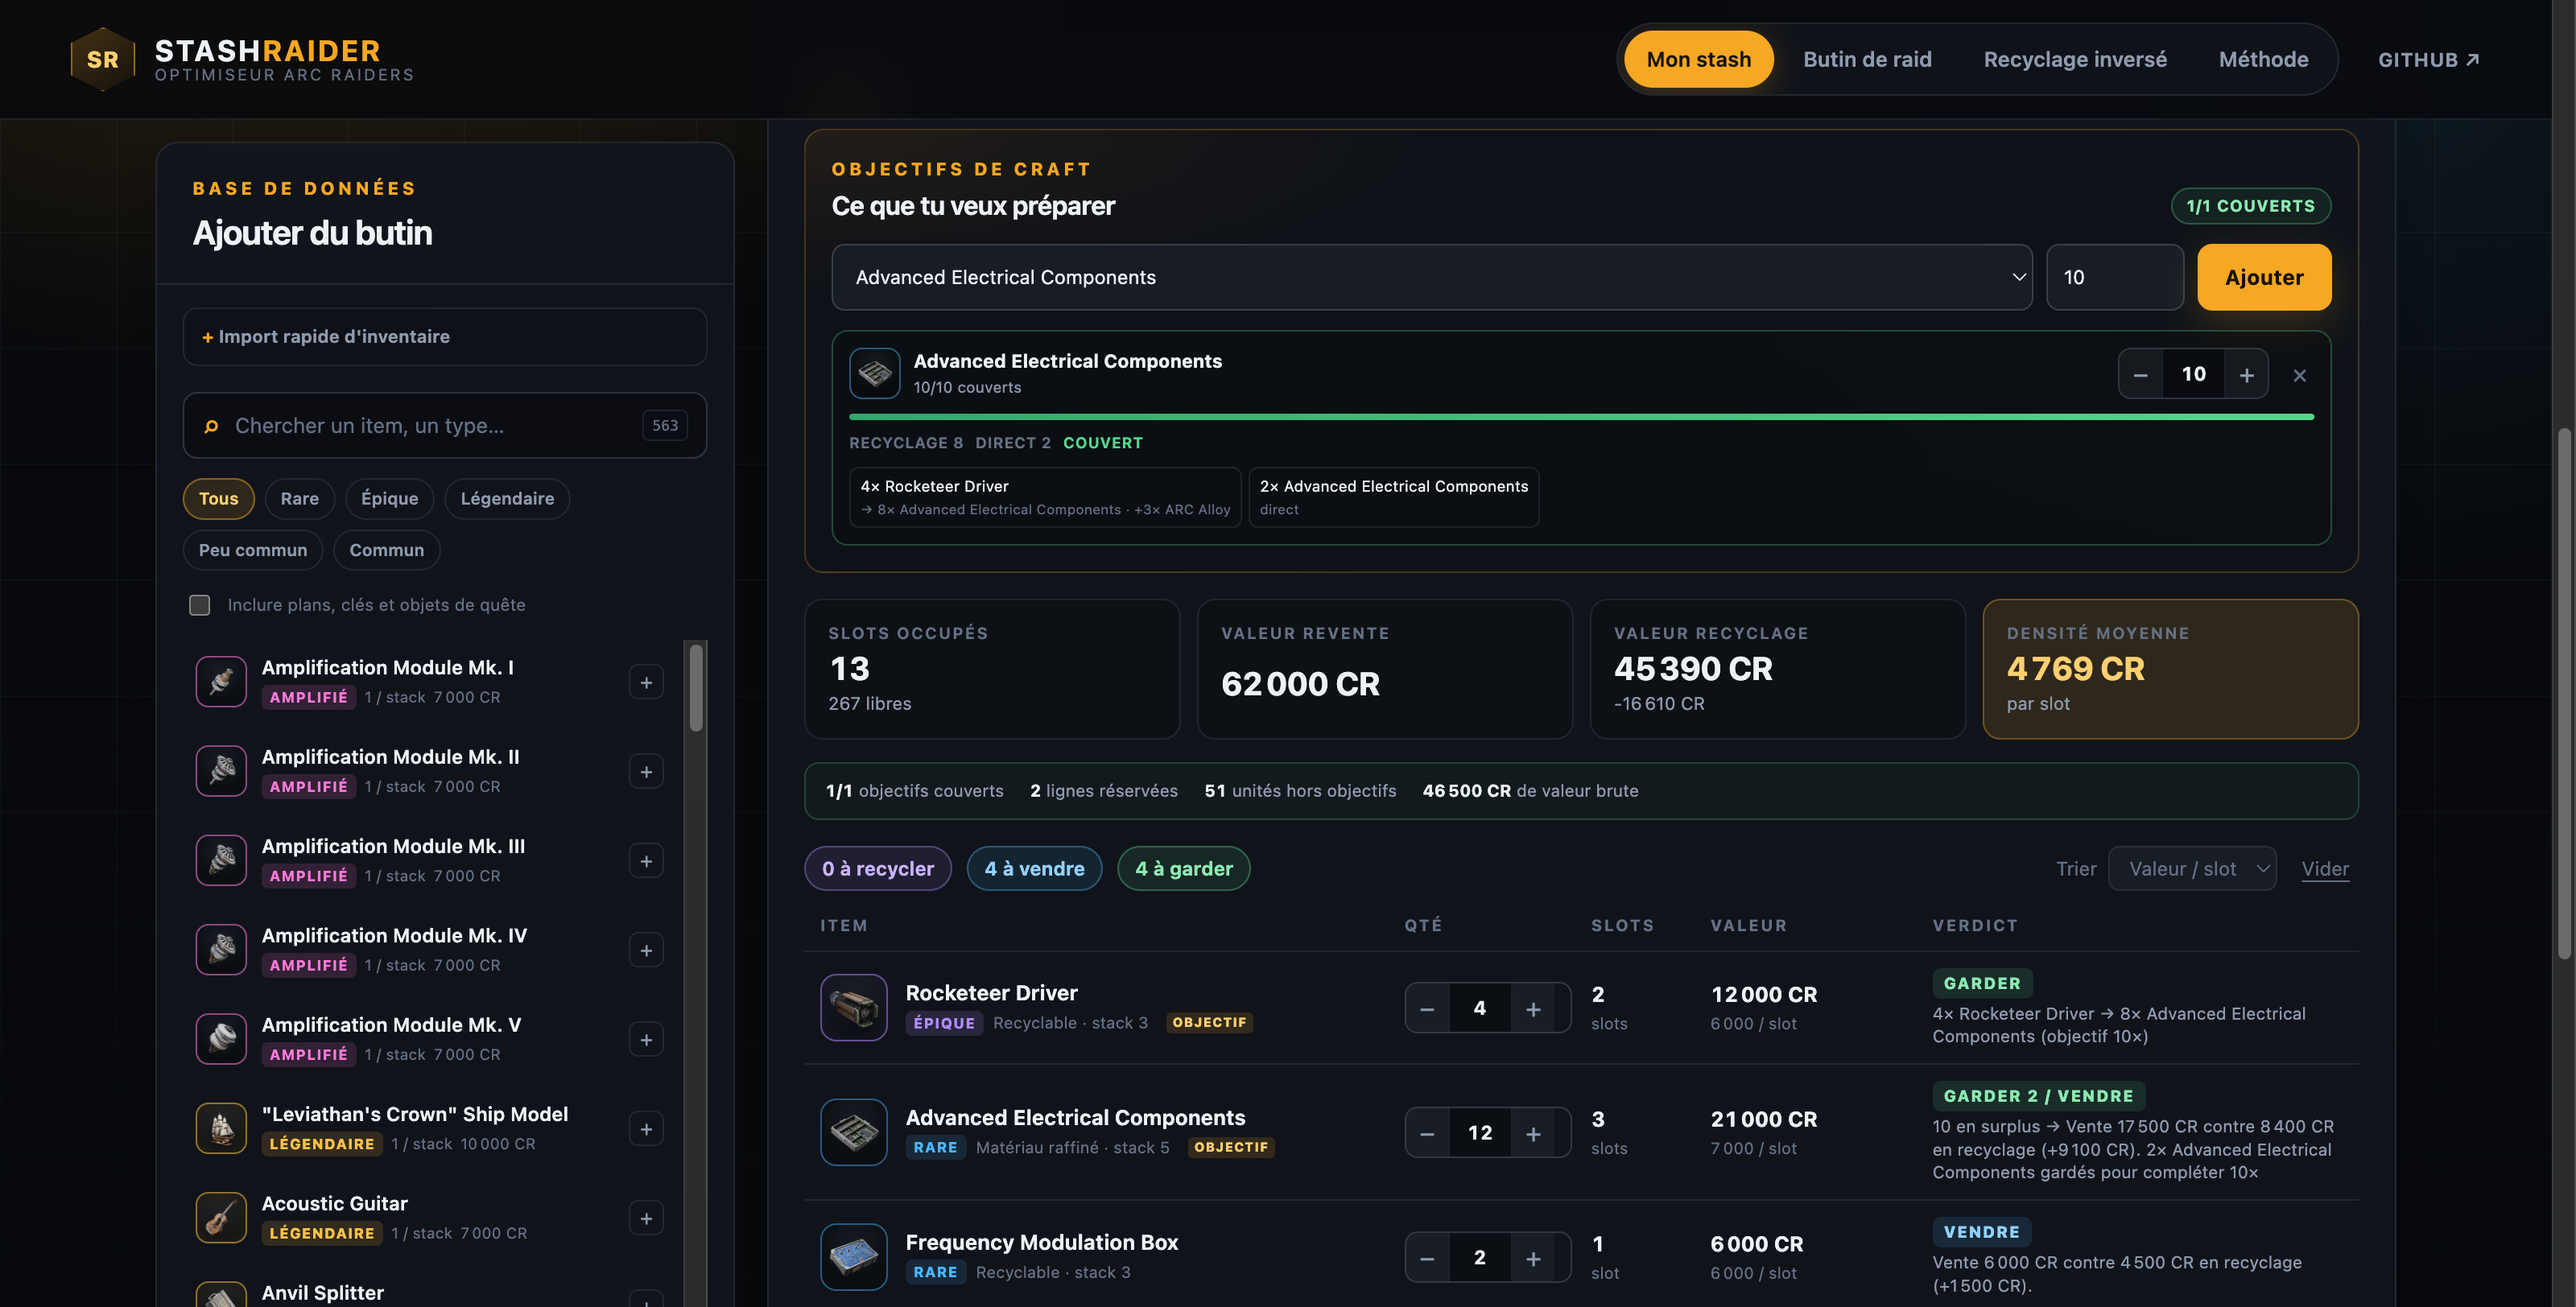
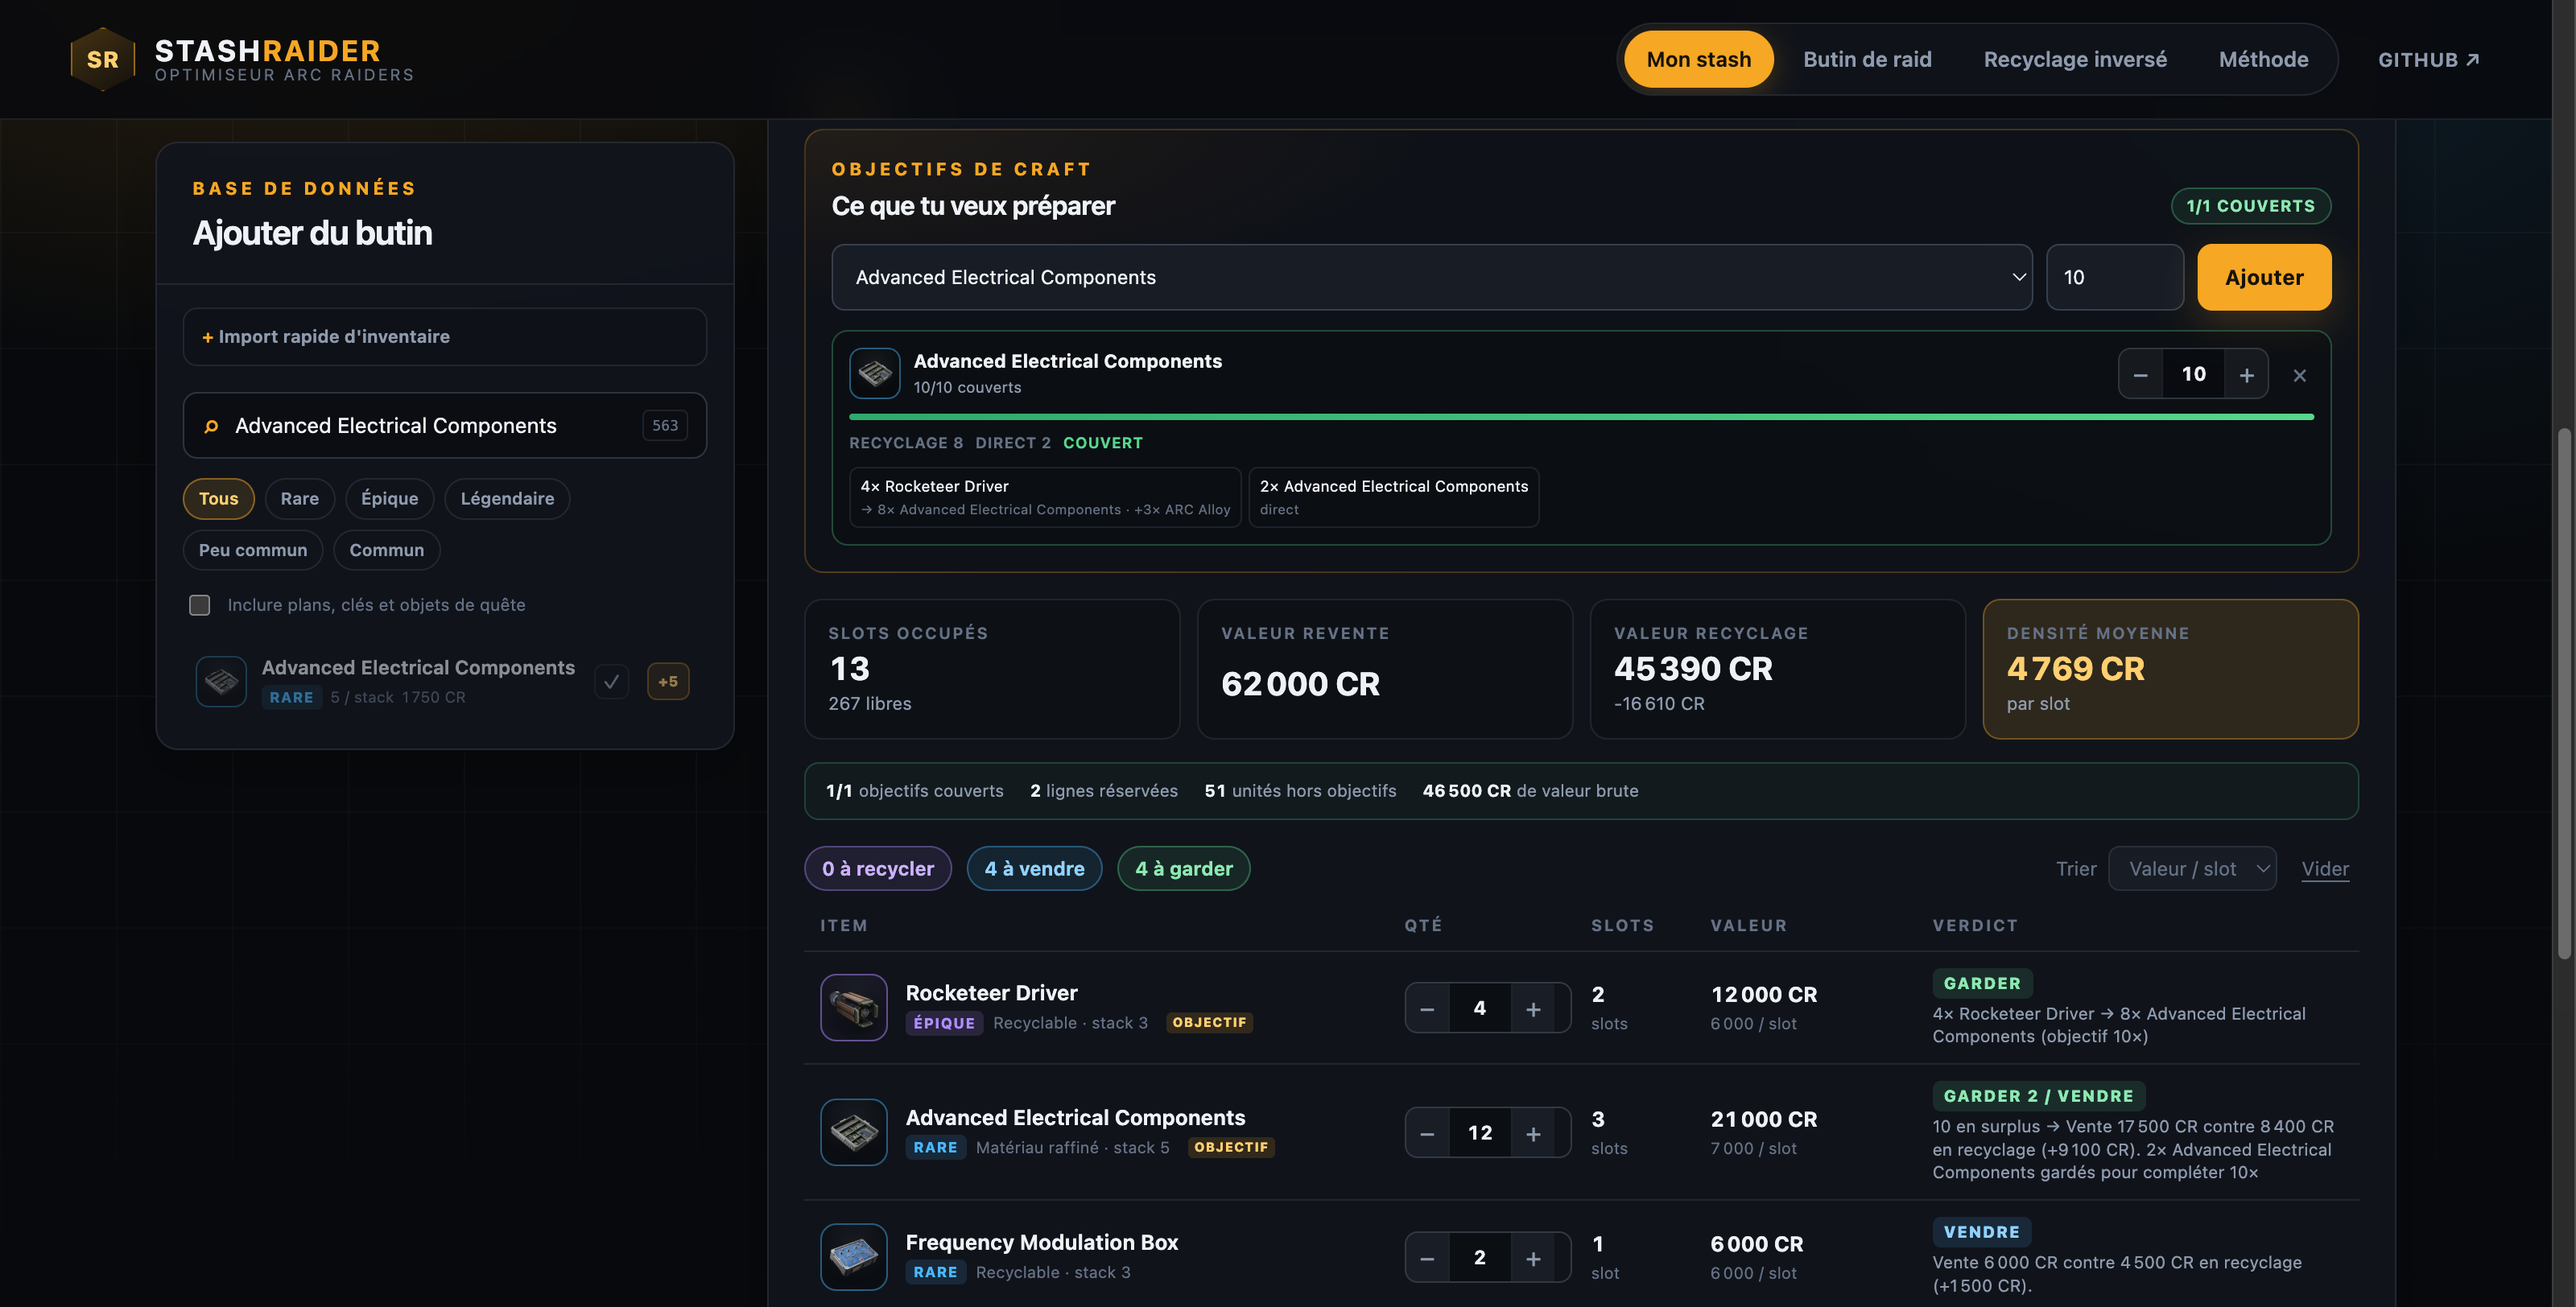
feat(inventory): add full-stack add buttons
Each search result now has a +stack shortcut, and item sheets offer
Add 1 or Add full stack. Both routes merge quantities into the existing
inventory line instead of creating duplicates.

diff --git a/src/components/item-search.tsx b/src/components/item-search.tsx
@@ -14,9 +14,11 @@ const rarityByName: Record<string, string> = {
 
 export const ItemSearch = ({
   onPick,
+  onPickStack,
   exclude = new Set<string>(),
 }: {
   onPick: (item: CatalogItem) => void;
+  onPickStack: (item: CatalogItem) => void;
   exclude?: Set<string>;
 }) => {
   const [query, setQuery] = useState("");
@@ -74,23 +76,31 @@ export const ItemSearch = ({
           results.map((item) => {
             const alreadyAdded = exclude.has(item.id);
             return (
-              <button
-                key={item.id}
-                type="button"
-                className={`search-result${alreadyAdded ? " is-added" : ""}`}
-                onClick={() => onPick(item)}
-              >
-                <ItemIcon item={item} size="sm" />
-                <span className="search-result__body">
-                  <span className="search-result__name">{item.name}</span>
-                  <span className="search-result__meta">
-                    <RarityBadge item={item} />
-                    <span>{item.stack} / stack</span>
-                    {item.sell > 0 ? <span>{formatCredits(item.sell)} CR</span> : null}
+              <div key={item.id} className={`search-result${alreadyAdded ? " is-added" : ""}`}>
+                <button type="button" className="search-result__main" onClick={() => onPick(item)}>
+                  <ItemIcon item={item} size="sm" />
+                  <span className="search-result__body">
+                    <span className="search-result__name">{item.name}</span>
+                    <span className="search-result__meta">
+                      <RarityBadge item={item} />
+                      <span>{item.stack} / stack</span>
+                      {item.sell > 0 ? <span>{formatCredits(item.sell)} CR</span> : null}
+                    </span>
                   </span>
-                </span>
-                <span className="search-result__add">{alreadyAdded ? "✓" : "+"}</span>
-              </button>
+                  <span className="search-result__add">{alreadyAdded ? "✓" : "+"}</span>
+                </button>
+                {item.stack > 1 ? (
+                  <button
+                    type="button"
+                    className="search-result__stack"
+                    onClick={() => onPickStack(item)}
+                    title={`Ajouter un stack complet (${item.stack})`}
+                    aria-label={`Ajouter un stack complet de ${item.name} (${item.stack})`}
+                  >
+                    +{item.stack}
+                  </button>
+                ) : null}
+              </div>
             );
           })
         )}

diff --git a/src/components/item-modal.tsx b/src/components/item-modal.tsx
@@ -38,7 +38,7 @@ export const ItemModal = ({
 }: {
   item: CatalogItem;
   onClose: () => void;
-  onAddToStash: (item: CatalogItem) => void;
+  onAddToStash: (item: CatalogItem, qty: number) => void;
 }) => {
   useEffect(() => {
     const onKey = (event: KeyboardEvent) => {
@@ -148,13 +148,34 @@ export const ItemModal = ({
         ) : null}
 
         <footer className="modal__foot">
-          <button
-            type="button"
-            className="button button--primary"
-            onClick={() => onAddToStash(item)}
-          >
-            Ajouter au stash
-          </button>
+          <div className="modal__actions">
+            {item.stack > 1 ? (
+              <>
+                <button
+                  type="button"
+                  className="button button--ghost"
+                  onClick={() => onAddToStash(item, 1)}
+                >
+                  Ajouter 1
+                </button>
+                <button
+                  type="button"
+                  className="button button--primary"
+                  onClick={() => onAddToStash(item, item.stack)}
+                >
+                  Ajouter un stack ({item.stack})
+                </button>
+              </>
+            ) : (
+              <button
+                type="button"
+                className="button button--primary"
+                onClick={() => onAddToStash(item, 1)}
+              >
+                Ajouter au stash
+              </button>
+            )}
+          </div>
           <span className="muted">La fiche ne remplace pas l'écran de recyclage du jeu.</span>
         </footer>
       </div>

diff --git a/src/styles.css b/src/styles.css
@@ -1480,12 +1480,12 @@ main {
 .search-result {
   display: flex;
   align-items: center;
-  gap: 9px;
+  gap: 4px;
   width: 100%;
   border: 1px solid transparent;
   border-radius: 9px;
   background: transparent;
-  padding: 7px;
+  padding: 0;
   text-align: left;
 }
 
@@ -1496,6 +1496,42 @@ main {
 
 .search-result.is-added {
   opacity: 0.55;
+}
+
+.search-result__main {
+  display: flex;
+  flex: 1;
+  align-items: center;
+  gap: 9px;
+  min-width: 0;
+  border: 0;
+  background: transparent;
+  padding: 7px;
+  text-align: left;
+}
+
+.search-result__main:focus-visible,
+.search-result__stack:focus-visible {
+  outline: 2px solid var(--accent);
+  outline-offset: -2px;
+}
+
+.search-result__stack {
+  flex: 0 0 auto;
+  margin-right: 6px;
+  border: 1px solid rgba(246, 167, 35, 0.4);
+  border-radius: 6px;
+  background: var(--accent-soft);
+  padding: 4px 6px;
+  color: var(--accent-2);
+  font-size: 9px;
+  font-weight: 800;
+  font-variant-numeric: tabular-nums;
+}
+
+.search-result__stack:hover {
+  background: var(--accent);
+  color: #17120a;
 }
 
 .search-result__body {
@@ -2158,6 +2194,12 @@ main {
   border-top: 1px solid var(--line);
   padding: 16px 24px;
   font-size: 10.5px;
+}
+
+.modal__actions {
+  display: flex;
+  flex-wrap: wrap;
+  gap: 8px;
 }
 
 .toast {

diff --git a/src/components/loot-view.tsx b/src/components/loot-view.tsx
@@ -70,13 +70,13 @@ export const LootView = ({
   const retainedSlots = retained.reduce((total, entry) => total + entry.stats.slots, 0);
   const retainedValue = retained.reduce((total, entry) => total + bestValue(entry.stats, mode), 0);
 
-  const addItem = (item: CatalogItem) => {
+  const addItem = (item: CatalogItem, qty = 1) => {
     setLoot((lines) => {
       const existing = lines.find((line) => line.id === item.id);
       if (existing) {
-        return lines.map((line) => (line.id === item.id ? { ...line, qty: line.qty + 1 } : line));
+        return lines.map((line) => (line.id === item.id ? { ...line, qty: line.qty + qty } : line));
       }
-      return [...lines, { id: item.id, qty: 1 }];
+      return [...lines, { id: item.id, qty }];
     });
   };
 
@@ -95,7 +95,11 @@ export const LootView = ({
         eyebrow="Ce que tu hésites à ramener"
         className="workspace__side"
       >
-        <ItemSearch onPick={addItem} exclude={new Set(loot.map((line) => line.id))} />
+        <ItemSearch
+          onPick={addItem}
+          onPickStack={(item) => addItem(item, item.stack)}
+          exclude={new Set(loot.map((line) => line.id))}
+        />
       </Panel>
 
       <div className="workspace__main">

diff --git a/src/components/stash-view.tsx b/src/components/stash-view.tsx
@@ -100,13 +100,13 @@ export const StashView = ({
     { recycle: 0, sell: 0, keep: 0 },
   );
 
-  const addItem = (item: CatalogItem) => {
+  const addItem = (item: CatalogItem, qty = 1) => {
     setInventory((lines) => {
       const existing = lines.find((line) => line.id === item.id);
       if (existing) {
-        return lines.map((line) => (line.id === item.id ? { ...line, qty: line.qty + 1 } : line));
+        return lines.map((line) => (line.id === item.id ? { ...line, qty: line.qty + qty } : line));
       }
-      return [...lines, { id: item.id, qty: 1 }];
+      return [...lines, { id: item.id, qty }];
     });
   };
 
@@ -146,7 +146,11 @@ export const StashView = ({
     <div className="workspace">
       <Panel title="Ajouter du butin" eyebrow="Base de données" className="workspace__side">
         <InventoryImport onImport={importInventory} />
-        <ItemSearch onPick={addItem} exclude={new Set(inventory.map((line) => line.id))} />
+        <ItemSearch
+          onPick={addItem}
+          onPickStack={(item) => addItem(item, item.stack)}
+          exclude={new Set(inventory.map((line) => line.id))}
+        />
       </Panel>
 
       <div className="workspace__main">

diff --git a/src/App.tsx b/src/App.tsx
@@ -78,15 +78,15 @@ const App = () => {
     [inventory],
   );
 
-  const addToStash = (item: CatalogItem) => {
+  const addToStash = (item: CatalogItem, qty = 1) => {
     setInventory((lines) => {
       const existing = lines.find((line) => line.id === item.id);
       if (existing) {
-        return lines.map((line) => (line.id === item.id ? { ...line, qty: line.qty + 1 } : line));
+        return lines.map((line) => (line.id === item.id ? { ...line, qty: line.qty + qty } : line));
       }
-      return [...lines, { id: item.id, qty: 1 }];
+      return [...lines, { id: item.id, qty }];
     });
-    notify(`${item.name} ajouté au stash`);
+    notify(`${qty}× ${item.name} ajouté${qty > 1 ? "s" : ""} au stash`);
   };
 
   const mergeIntoStash = (lines: InventoryLine[]) => {
@@ -254,8 +254,8 @@ const App = () => {
         <ItemModal
           item={inspected}
           onClose={() => setInspected(null)}
-          onAddToStash={(item) => {
-            addToStash(item);
+          onAddToStash={(item, qty) => {
+            addToStash(item, qty);
             setInspected(null);
           }}
         />

diff --git a/README.md b/README.md
@@ -29,6 +29,8 @@ Optimiseur de stash pour **Arc Raiders**. Il répond à quatre questions :
   est du surplus, avec sa valeur de sortie.
 - Import d'inventaire : une ligne par item, quantité avant ou après le nom, par exemple
   `12 Advanced Electrical Components` ou `Rocketeer Driver x4`.
+- Ajout rapide : un clic ajoute 1 unité, le bouton `+5` (ou la taille du stack) ajoute
+  une pile complète. La fiche item propose les deux quantités.
 - Recherche inversée : `items = ⌈besoin ÷ rendement⌉` puis `slots = ⌈items ÷ stack⌉`.
 
 Les prix, stacks, rendements de recyclage et recettes viennent des tables Cargo
